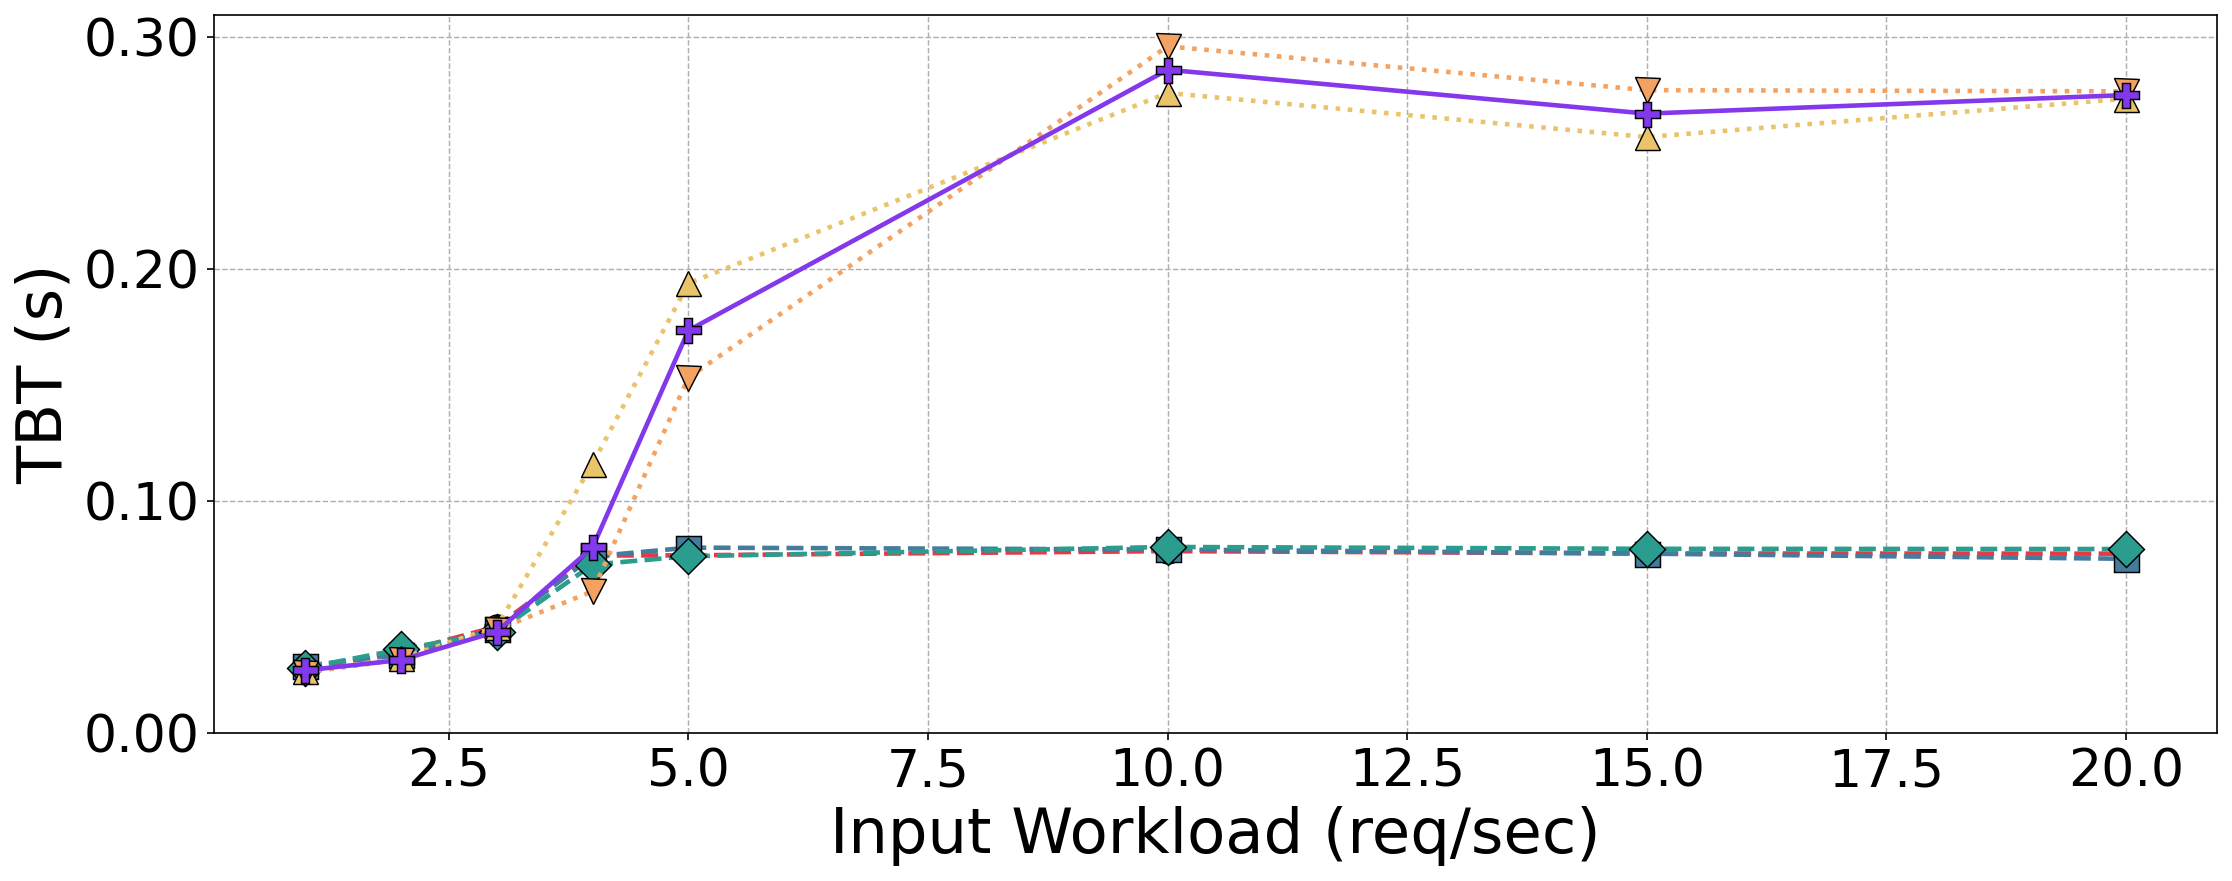
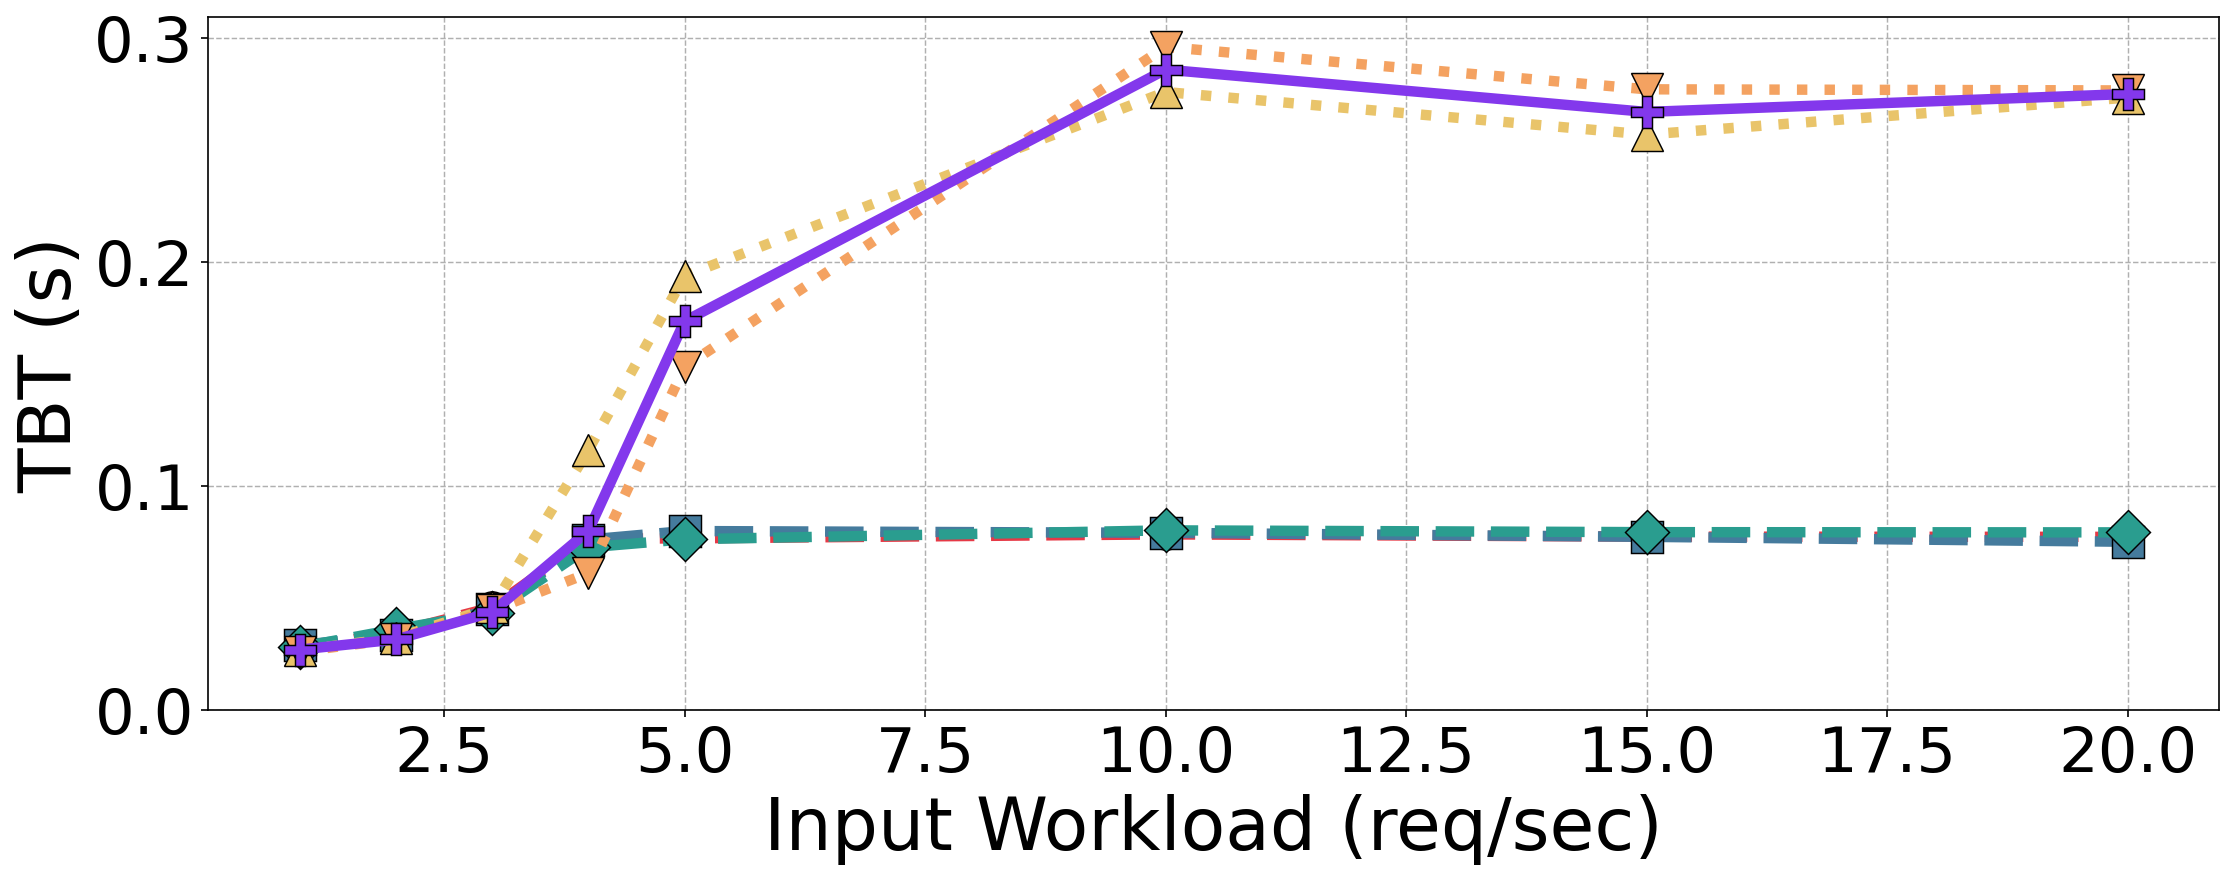
avg-batch-size

diff --git a/code/vllm/no_pref_sharing_logs/plot.py b/code/vllm/no_pref_sharing_logs/plot.py
@@ -220,20 +220,20 @@ def make_plot(metric_key, ylabel, title, outpath):
                 ys,
                 marker=marker,
                 linestyle=linestyle,
-                linewidth=2.2,
-                markersize=12,
+                linewidth=5,
+                markersize=15,
                 markeredgecolor="black",
                 markeredgewidth=0.7,
                 color=color,
                 label=label
             )
 
-    ax.set_xlabel("Input Workload (req/sec)", fontsize=30)
-    ax.set_ylabel(ylabel, fontsize=30)
+    ax.set_xlabel("Input Workload (req/sec)", fontsize=35)
+    ax.set_ylabel(ylabel, fontsize=35)
 
-    ax.tick_params(axis="both", labelsize=25)
+    ax.tick_params(axis="both", labelsize=30)
 
-    ax.yaxis.set_major_formatter(ticker.FormatStrFormatter('%.2f'))
+    ax.yaxis.set_major_formatter(ticker.FormatStrFormatter('%.1f'))
 
     if metric_key == "throughput":
         handles, labels = ax.get_legend_handles_labels()
@@ -242,7 +242,7 @@ def make_plot(metric_key, ylabel, title, outpath):
         ax.legend(
             sorted_handles,
             sorted_labels,
-            fontsize=20,
+            fontsize=30,
             framealpha=0.3,
             ncol=2,
         )
@@ -270,14 +270,14 @@ os.makedirs(OUT, exist_ok=True)
 
 make_plot(
     "throughput",
-    "Throughput (toks/s)",
+    "TP (toks/s)",
     "Throughput vs Request Rate",
     os.path.join(OUT, "throughput_vs_rps.png")
 )
 
 make_plot(
     "avg_batch",
-    "Avg Batch Size",
+    "Average Batch Size",
     "Average Batch Size vs Request Rate",
     os.path.join(OUT, "avg_batch_vs_rps.png")
 )
